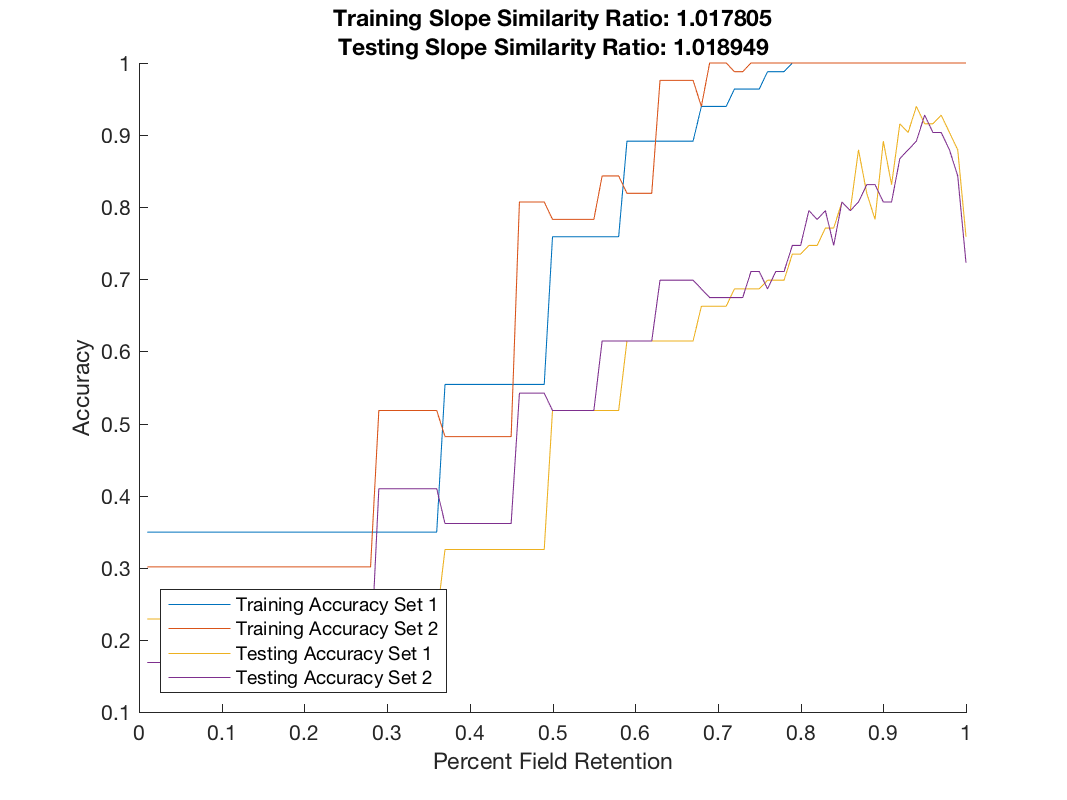
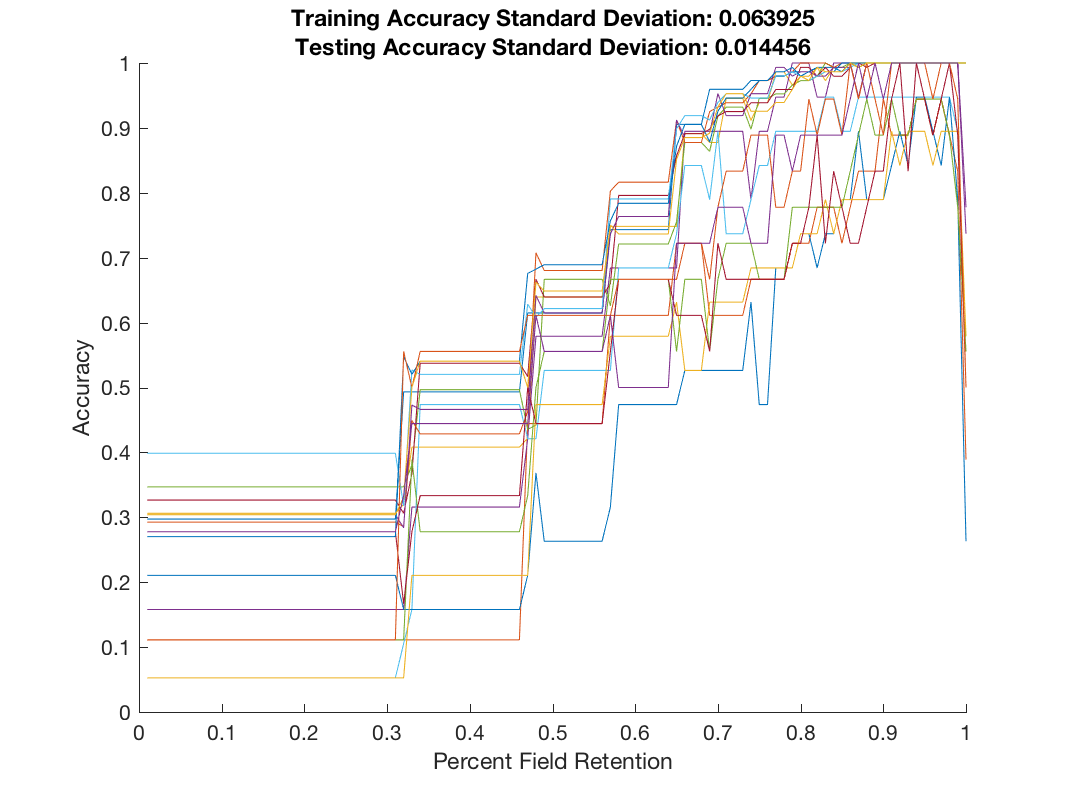
test stuff

diff --git a/ANN/validation_slope_plot.m b/ANN/validation_slope_plot.m
@@ -1,17 +1,23 @@
+S = size(training_accuracies,2) - 1;
+
 slope_sim_training = training_accuracies(:,2)\training_accuracies(:,3);
 slope_sim_testing = testing_accuracies(:,2)\testing_accuracies(:,3);
 
 fig = figure();
 hold on;
-plot(training_accuracies(:,1), training_accuracies(:,2));
-plot(training_accuracies(:,1), training_accuracies(:,3));
+for s=2:S+1
+    plot(training_accuracies(:,1),training_accuracies(:,s));
+    plot(testing_accuracies(:,1), testing_accuracies(:,s));
+end
 
-plot(testing_accuracies(:,1), testing_accuracies(:,2));
-plot(testing_accuracies(:,1), testing_accuracies(:,3));
-legend('Training Accuracy Set 1','Training Accuracy Set 2','Testing Accuracy Set 1','Testing Accuracy Set 2','Location','southwest');
+std_training = std(mean(testing_accuracies(:,2:S+1)));
+std_testing = std(mean(training_accuracies(:,2:S+1)));
+
+%legend('Training Accuracy Set 1','Training Accuracy Set 2','Testing Accuracy Set 1','Testing Accuracy Set 2','Location','southwest');
 xlabel('Percent Field Retention');
 ylabel('Accuracy');
-title(sprintf('Training Slope Similarity Ratio: %f\nTesting Slope Similarity Ratio: %f',slope_sim_training,slope_sim_testing));
+title(sprintf('Training Accuracy Standard Deviation: %f\nTesting Accuracy Standard Deviation: %f',std_training,std_testing));
+%title(sprintf('Training Slope Similarity Ratio: %f\nTesting Slope Similarity Ratio: %f',slope_sim_training,slope_sim_testing));
 hold off;
 
 saveas(fig,'../Latex/validation_imgs/field_retention_validation.png');

diff --git a/ANN/test.m b/ANN/test.m
@@ -5,7 +5,7 @@ image_size = 40;
 
 %% Parameters
 deep_ann.num_classes = 15;
-deep_ann.hidden_layer_division = 1.61803399;%1.4;
+deep_ann.hidden_layer_division = 1.1;%1.61803399;%1.4;
 deep_ann.training_iters = 1000;
 deep_ann.eta = 0.5;
 deep_ann.percent_field_retention = 0.95;
